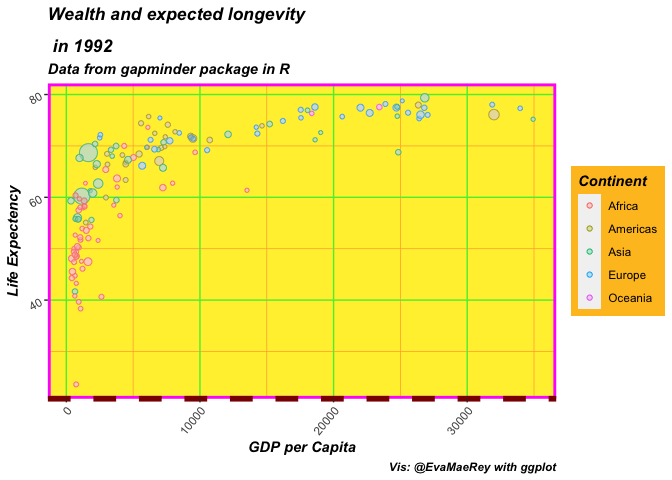
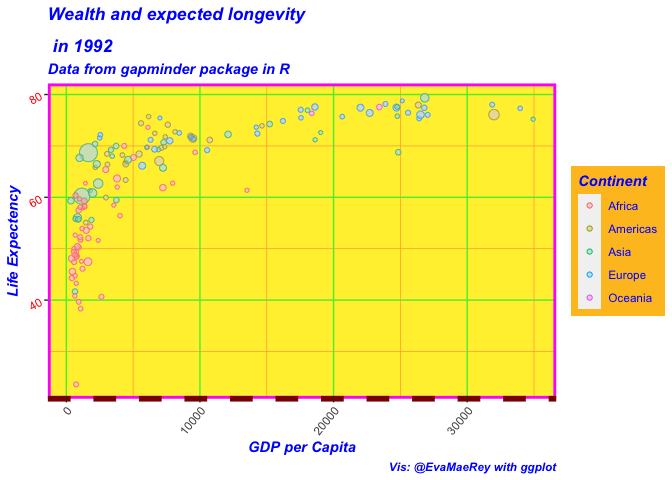
anything missed

diff --git a/README.md b/README.md
@@ -593,11 +593,14 @@ rect_elements_type_functions$function_col %>%
 ``` r
 source("R/text_elements_functions.R") # 30 proposed functions to adjust text.
 source("R/line_elements_functions.R") # 29 proposed functions to adjust line elements
-source("R/rect_elements_functions.R") # 7 proposed functions to adjsut rect elements
+source("R/rect_elements_functions.R") # 7 proposed functions to adjust rect elements
 
 g +  
-  theme_axis_text_y_left(angle = 30) + 
-  theme_axis_text_x(angle = 50, hjust = 1) + 
+  theme_axis_text_y_left(angle = 30, color = "red") +
+  # theme_axis_text_x(angle = 50, hjust = 1) + 
+  theme(axis.text.x = element_text(angle = 50, hjust = 1)) +
+  # theme_text(color = "blue") + 
+  theme(text = element_text(color = "blue")) + 
   theme_title(face = "bold.italic", lineheight = 1.5) + 
   theme_axis_line_x(colour = "darkred", 
                     linetype = "dashed", 
@@ -695,3 +698,11 @@ g +
 ```
 
 ![](README_files/figure-gfm/unnamed-chunk-10-1.png)<!-- -->
+
+``` r
+
+g  + 
+  theme(legend.box.spacing = unit(2, "cm"))
+```
+
+![](README_files/figure-gfm/unnamed-chunk-10-2.png)<!-- -->
